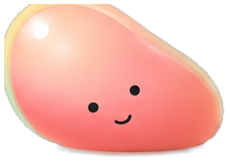
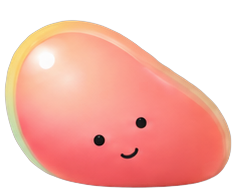
Mochi : détourage et planche des 5 humeurs faits par ChatGPT (fond transparent), cadres d'inclinaison et d'humeur branchés

diff --git a/src/components/mochi-img.js b/src/components/mochi-img.js
@@ -1,22 +1,27 @@
 // Mochi en images (décision Jeanne 14 sept 2026, 22 h 40) : le personnage rendu par ChatGPT,
 // découpé en 7 inclinaisons (assets/mochi/leanm3 … leanp3, même canevas 236 × 136, base alignée).
-// lean ∈ [−1, 1] → cadre le plus proche. Les humeurs ne sont pas encore dessinées (tous les cadres
-// sourient) : à demander à ChatGPT (neutre, triste, endormi, clin d'œil) puis à brancher ici.
+// lean ∈ [−1, 1] → cadre le plus proche (visage content) ; les autres humeurs ont leur cadre de face (mood-*.png).
 import React, { useEffect, useState } from 'react';
 import { Image, Pressable } from 'react-native';
 import Animated, { useSharedValue, useAnimatedStyle, withRepeat, withTiming, withSpring, withSequence, Easing } from 'react-native-reanimated';
 
-export const MOCHI_RATIO = 160 / 230; // hauteur / largeur du canevas
+export const MOCHI_RATIO = 191 / 235; // hauteur / largeur du canevas
 const FRAMES = { // pas de « + » ni de « - » dans les noms : Metro ne résout pas ces fichiers
   '-3': require('../../assets/mochi/leanm3.png'), '-2': require('../../assets/mochi/leanm2.png'), '-1': require('../../assets/mochi/leanm1.png'),
   '0': require('../../assets/mochi/leanp0.png'),
   '1': require('../../assets/mochi/leanp1.png'), '2': require('../../assets/mochi/leanp2.png'), '3': require('../../assets/mochi/leanp3.png'),
 };
-export const frameFor = lean => FRAMES[String(Math.max(-3, Math.min(3, Math.round((lean || 0) * 3))))];
+const MOODS = { // planche des humeurs (ChatGPT, 14 sept 2026, 23 h), même corps de face
+  neutral: require('../../assets/mochi/mood-neutral.png'), sad: require('../../assets/mochi/mood-sad.png'),
+  sleeping: require('../../assets/mochi/mood-sleeping.png'), wink: require('../../assets/mochi/mood-wink.png'),
+};
+export const frameFor = (lean, mood) => (mood && MOODS[mood]) || FRAMES[String(Math.max(-3, Math.min(3, Math.round((lean || 0) * 3))))];
 
 // statique : `size` = largeur ; la hauteur suit le canevas
 export function MochiImage({ size = 140, lean = 0, mood, style }) {
-  return <Image source={frameFor(lean)} style={[{ width: size, height: size * MOCHI_RATIO }, style]} resizeMode="contain" accessibilityIgnoresInvertColors />;
+  // humeur ≠ content : le cadre de face, incliné par rotation (les inclinaisons dessinées n'existent qu'avec le sourire)
+  const tilt = mood && MOODS[mood] ? [{ rotate: `${(lean || 0) * 8}deg` }] : [];
+  return <Image source={frameFor(lean, mood)} style={[{ width: size, height: size * MOCHI_RATIO, transform: tilt }, style]} resizeMode="contain" accessibilityIgnoresInvertColors />;
 }
 
 // réaction partagée : une coche n'importe où → secousse
@@ -37,7 +42,7 @@ export function LiveMochiImage({ size = 140, lean = 0, mood, breathe = true }) {
     sx.value = withSequence(withTiming(1.12, { duration: 90 }), withSpring(1, s));
     sy.value = withSequence(withTiming(0.88, { duration: 90 }), withSpring(1, s));
   };
-  useEffect(() => { if (frameFor(lean) !== frameFor(frameLean)) { setFrameLean(lean); wobble(); } }, [lean]);
+  useEffect(() => { if (frameFor(lean, mood) !== frameFor(frameLean, mood)) { setFrameLean(lean); wobble(); } }, [lean]);
   useEffect(() => { listeners.add(wobble); return () => listeners.delete(wobble); }, []);
   const style = useAnimatedStyle(() => ({ transformOrigin: '50% 100%', transform: [{ scaleX: sx.value }, { scaleY: sy.value }] }));
   return (

diff --git a/TODO.md b/TODO.md
@@ -294,7 +294,7 @@ Pack de captures réelles du simulateur (16 écrans + 3 rafales d'animations + z
 
 **Mochi, fin de soirée (14 sept)** : le galet puis le dôme n'ont pas plu (« pas bon ») → **le rond v1 est remis dans l'app**. Décision Jeanne : **ChatGPT s'occupe du personnage** (image de référence : mochi posé, large, ombré, reflet net, liseré sauge/beurre). Quand une image est retenue : la déposer dans `design/mochi-personnage/retours-chatgpt/`, Claude la redessine en SVG paramétrique (humeurs + inclinaison) ou en PNG par humeur. Le corps vivant (respiration, cisaillement, secousse à la coche, `mochiReact`) est prêt dans `src/components/mochi-v2.js` et se rebranche en deux lignes (ui.js `Mochi`, motion.js `LiveMochi`).
 
-**14 sept, 23 h — décisions Jeanne** : passe « rouge » **validée** (« je préfère après »). **Accueil sans défilement** (rappel de sa règle) : « À venir » montre le nombre de jours qui rentrent dans la page (jours mesurés hors écran, jusqu'à 6). **Le personnage vient de ChatGPT, en images** : `assets/mochi/leanm3 … leanp3.png` (7 inclinaisons découpées de la rangée ChatGPT, base alignée, canevas commun ; pas de « + »/« - » dans les noms, Metro ne les résout pas) + `pose-01 … 12.png` (planche de 12 poses, dont secousse et bouche « o »). Composant `src/components/mochi-img.js` (`MochiImage`, `LiveMochiImage` : respiration, cadre selon la balance, secousse à la coche/au toucher, `mochiReact`). **Limite** : toutes les images sourient → demander à ChatGPT une planche d'humeurs (neutre, triste, endormi, clin d'œil) dans le même style, même cadrage, puis brancher `mood`. Sources : `design/mochi-personnage/retours-chatgpt/` (ref-1, ref-2 = candidat icône, planche-12-poses, rangee-7-inclinaisons).
+**14 sept, 23 h — décisions Jeanne** : passe « rouge » **validée** (« je préfère après »). **Accueil sans défilement** (rappel de sa règle) : « À venir » montre le nombre de jours qui rentrent dans la page (jours mesurés hors écran, jusqu'à 6). **Le personnage vient de ChatGPT, en images** : `assets/mochi/leanm3 … leanp3.png` (7 inclinaisons découpées de la rangée ChatGPT, base alignée, canevas commun ; pas de « + »/« - » dans les noms, Metro ne les résout pas) + `pose-01 … 12.png` (planche de 12 poses, dont secousse et bouche « o »). Composant `src/components/mochi-img.js` (`MochiImage`, `LiveMochiImage` : respiration, cadre selon la balance, secousse à la coche/au toucher, `mochiReact`). **Détourage et humeurs faits par ChatGPT (23 h 10, à la demande de Jeanne)** : `rangee-7-detouree.png` (fond transparent, sans ombre) → cadres `leanm3…leanp3` ; `planche-5-humeurs-detouree.png` → `mood-neutral/sad/sleeping/wink.png` (mise à la largeur du mochi de face, base alignée). Le composant choisit le cadre d'humeur pour neutre/triste/endormi/clin d'œil (inclinaison par rotation), les cadres dessinés pour content. Sources : `design/mochi-personnage/retours-chatgpt/` (ref-1, ref-2 = candidat icône, planche-12-poses, rangee-7-inclinaisons).
 
 **Logo validé (Jeanne, 14 sept, 23 h 30)** : l'image ChatGPT « mochi plein cadre » (`design/mochi-personnage/retours-chatgpt/icone-validee.png`) est l'icône de l'app **pour le moment**. `assets/icon.png` = recadrage 8 % à l'intérieur des coins arrondis, 1024 sans transparence ; Android : fond crème + premier plan 66 % + monochrome (silhouette du mochi) ; `splash-icon.png` = le mochi de face sur transparent, fond `#FBF7F2` dans app.json. Visible au prochain build natif seulement (les icônes sont natives). Le proto `/proto-logo` (4 pistes vectorielles) reste pour mémoire.
 
